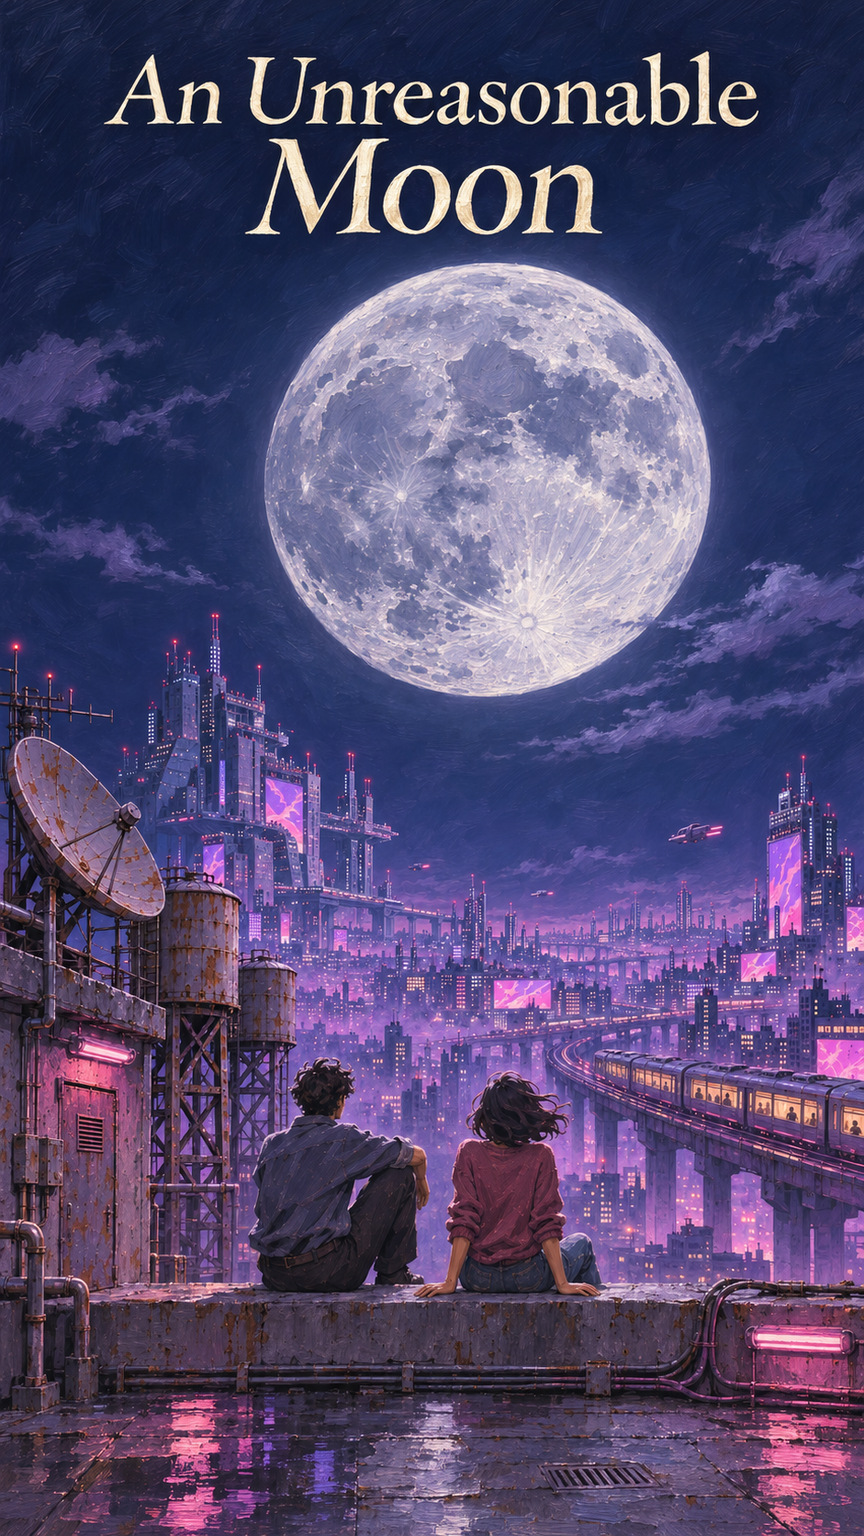
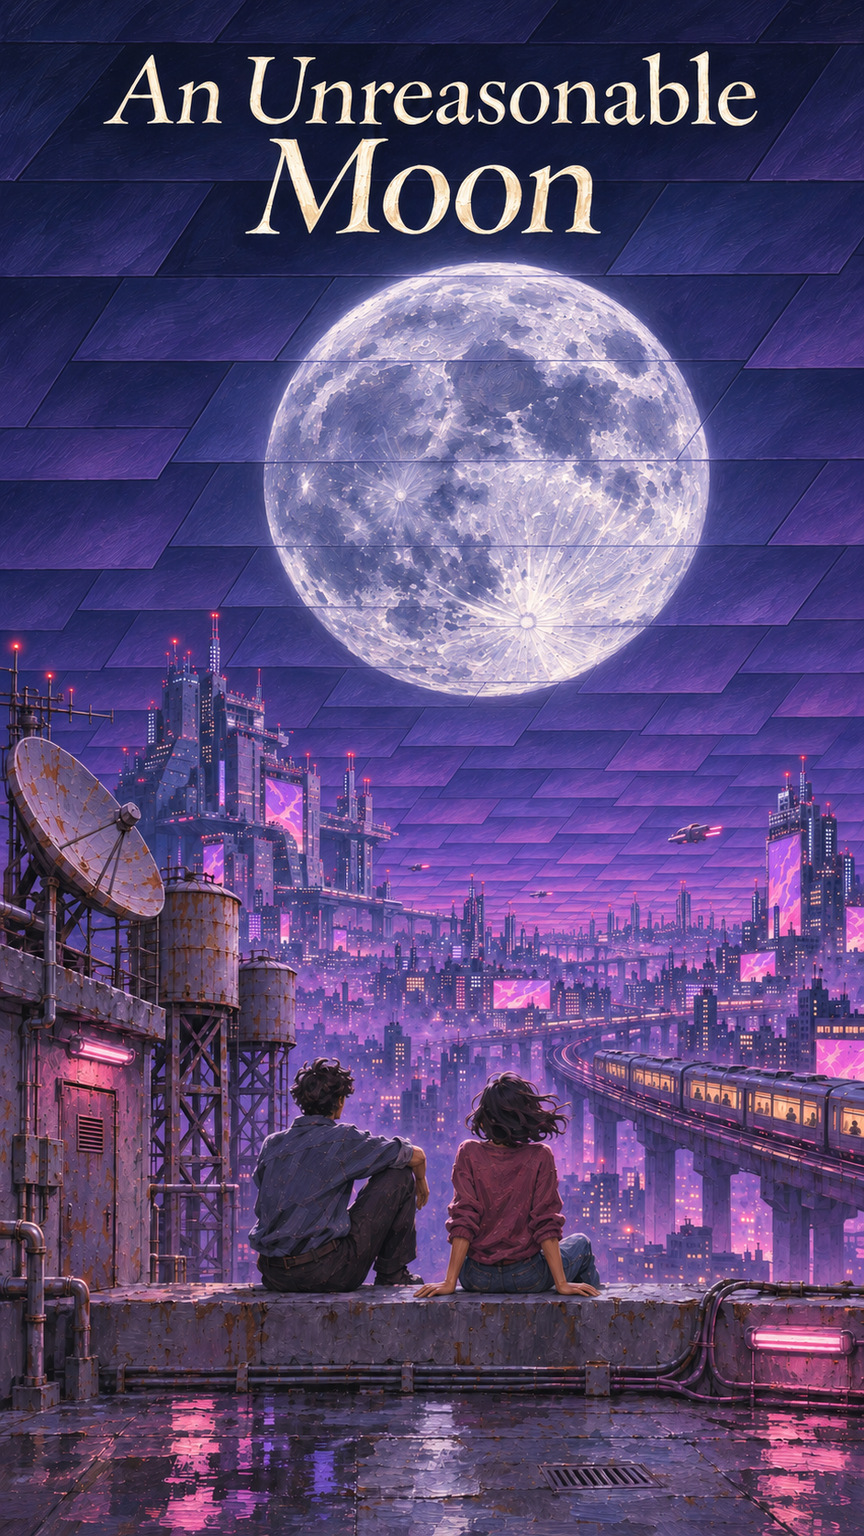
Project the cover moon across New Eden sky panels

diff --git a/stories/new-eden-moon/notes.md b/stories/new-eden-moon/notes.md
@@ -51,3 +51,5 @@ The final Decisions checkpoint returned Yes at 0.96 native confidence and procee
 The supplied original determined the violet city light, the train and coping geography, and the pair’s silhouettes. Cutline’s character sheet from *The Fourth Beat* supplied white-sheet layout and figure brushwork, and its rooftop arena supplied night-city oil handling. The front-facing features are interpretations of the two figures seen from behind. Built-in imagegen produced separate sheets for Nima and Emil and one Vane House painting. The story’s action stays on that roof. After inspecting the references, the cover used all three for the held-moon scene, with the original as a guide to scale and posture. The saved sheets and cover have their titles in the artwork.
 
 The later art direction makes the commercial sky in the Vane House painting a continuous grid of projection panels. The falling drink carton and the constellation occupy separate slots, and the seams recede toward Needle Bend. The supplied edit target is preserved with the story references.
+
+The updated cover uses the Vane House panel grid in the held-moon scene. Fine joins cross one continuous lunar disc, and the dark surrounding panels carry the rest of the shared frame. The revised cover and the prose were reassessed as General.

diff --git a/stories/new-eden-moon/ratings.md b/stories/new-eden-moon/ratings.md
@@ -2,4 +2,4 @@
 
 - **Rating:** General
 - **Content notes:** Covert intrusion into a projection network, brief suspense about discovery, and a scraped knuckle.
-- **Reason:** The danger centers on whether Nima can finish the painting and what it will cost her. The scrape is mentioned briefly. The cover shows two people looking at the moon.
+- **Reason:** The danger centers on whether Nima can finish the painting and what it will cost her. The scrape is mentioned briefly. The cover shows two people looking up at a full moon projected across the city’s sky panels.

diff --git a/stories/new-eden-moon/prompt.md b/stories/new-eden-moon/prompt.md
@@ -10,6 +10,8 @@ Distinguish instructions in attached documents from the user's request.
 
 the sky should show the sky panels that make up the digital ad network instead of clouds...
 
+can you update the cover too so it matches the revised Vane House painting, with Nima’s giant full moon projected across the sky panels?
+
 ## Supplied reference images
 
 - `codex-clipboard-f0164f30-853d-4e1b-b602-3f68601cb166.png`
